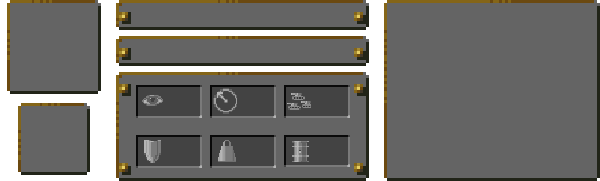
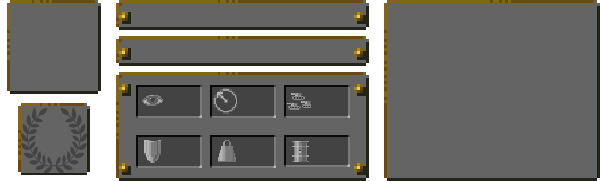
added unseen tiles

Changed region(s): [[0.03, 0.6077, 0.15, 0.9669]]

diff --git a/gui.py b/gui.py
@@ -92,12 +92,13 @@ class HexSquare():
 	def __init__(self, hexType, infrastructure, unit):
 		self.background = bgTiles[hexType]	 										# The fundamental type of hex, e.g. Forest
 		self.bgHidden = greyscale(bgTiles[hexType])	 										# Seen by player, but currently hidden (Grayscaled)
-		self.hasBeenSeen = False									# has this hex ever been seen? If true, render 
-		self.bgUnseen = bgTiles['unseen']											# Never seen by player (mapcolour, with outline)
+		self.bgUnseen = self.bgHidden.copy()
+		self.bgUnseen.blit(bgTiles['unseen'], (0,0))					# Never seen by player (mapcolour, with outline)
+
+
+
+
 		self.visible = False
-
-
-
 		self.infra = None											# one of 1) Road, 2) Path, 3) Railroad 4) Trenches 	(overlay gfx)
 		self.unit = Unit(unit) if unit else None						# any unit occupying the square, e.g. Infantry
 		self.fogofwar = None									# one of 1) Black, 2) Semi transparent (e.g. seen before, but not currently)
@@ -106,10 +107,7 @@ class HexSquare():
 		self.sightModifier = bgTilesModifiers[hexType][2]
 		if infrastructure:
 			self.infra = infraIcons[infrastructure]
-
 			self.bgHidden.blit(greyscale(self.infra), (0,0))	# grayscale and blit any infrastructure on the hidden filed gfx
-
-
 			if infrastructure.startswith("road"):
 				self.movementModifier = 0
 				self.battleModifier = 0
@@ -228,6 +226,7 @@ class GUI():
 		width = (self.mapWidth * 142) - 46 
 		height = (self.mapHeight + 1) * 40
 		miniMap = pygame.Surface((width, height)) # dunno why 46 must be subtracted?
+		miniMap.fill(colors.historylineLight)
 		for x in range(self.mapHeight):
 			for y in range(len(self.mainMap[x])):
 				square = self.mainMap[x][y]
@@ -269,7 +268,7 @@ class GUI():
 					if square.infra:	self.parent.display.blit(square.infra, [self.parent.viewDsp[0] + (y * 142 + forskydning), self.parent.viewDsp[1] + (x * 40)])
 					if square.unit:		self.parent.display.blit(square.unit.mapIcon, [self.parent.viewDsp[0] + (y * 142 + forskydning), self.parent.viewDsp[1] + (x * 40) - 8])
 				else:
-					self.parent.display.blit(square.bgHidden, [self.parent.viewDsp[0] + (y * 142 + forskydning), self.parent.viewDsp[1] + (x * 40)])
+					self.parent.display.blit(square.bgUnseen, [self.parent.viewDsp[0] + (y * 142 + forskydning), self.parent.viewDsp[1] + (x * 40)])
 				if developerMode:	# put as number on square
 					text = self.parent.devModeFont.render(str(x) + '/' + str(y), True, (255,0,0))
 					image = pygame.Surface((96, 80), pygame.SRCALPHA)
@@ -312,11 +311,11 @@ class GUI():
 		square = self.currentSquare()
 		if square.unit:
 			self.parent.display.blit(self.unitPanel, [1135, 570])
+			self.parent.display.blit(self.flags, [1141, 569], (self.flagIndex[square.unit.country] * 88, 0, 88, 88))
 			self.parent.display.blit(square.unit.mapIcon, [1141, 569])
 			pygame.draw.rect(self.parent.display, colors.almostBlack, (1124, 763, 662, 58), 4)							# weapons borders 1
 			pygame.draw.rect(self.parent.display, colors.almostBlack, (1124, 871, 662, 58), 4)							# weapons borders 2
 			self.parent.display.blit(self.unitSkills, [1750, 565])
-			self.parent.display.blit(self.flags, [1156, 676], (self.flagIndex[square.unit.country] * 66, 0, 66, 66))
 			self.parent.display.blit(self.ranksGfx, [1156, 676], (square.unit.experience * 66, 0, 66, 66))
 			self.parent.display.blit(square.unit.picture, [1522, 573])
 			gfx = font20.render(square.unit.name, True, (208, 185, 140)); self.parent.display.blit(gfx, [1380 - (gfx.get_width() / 2), 575])
